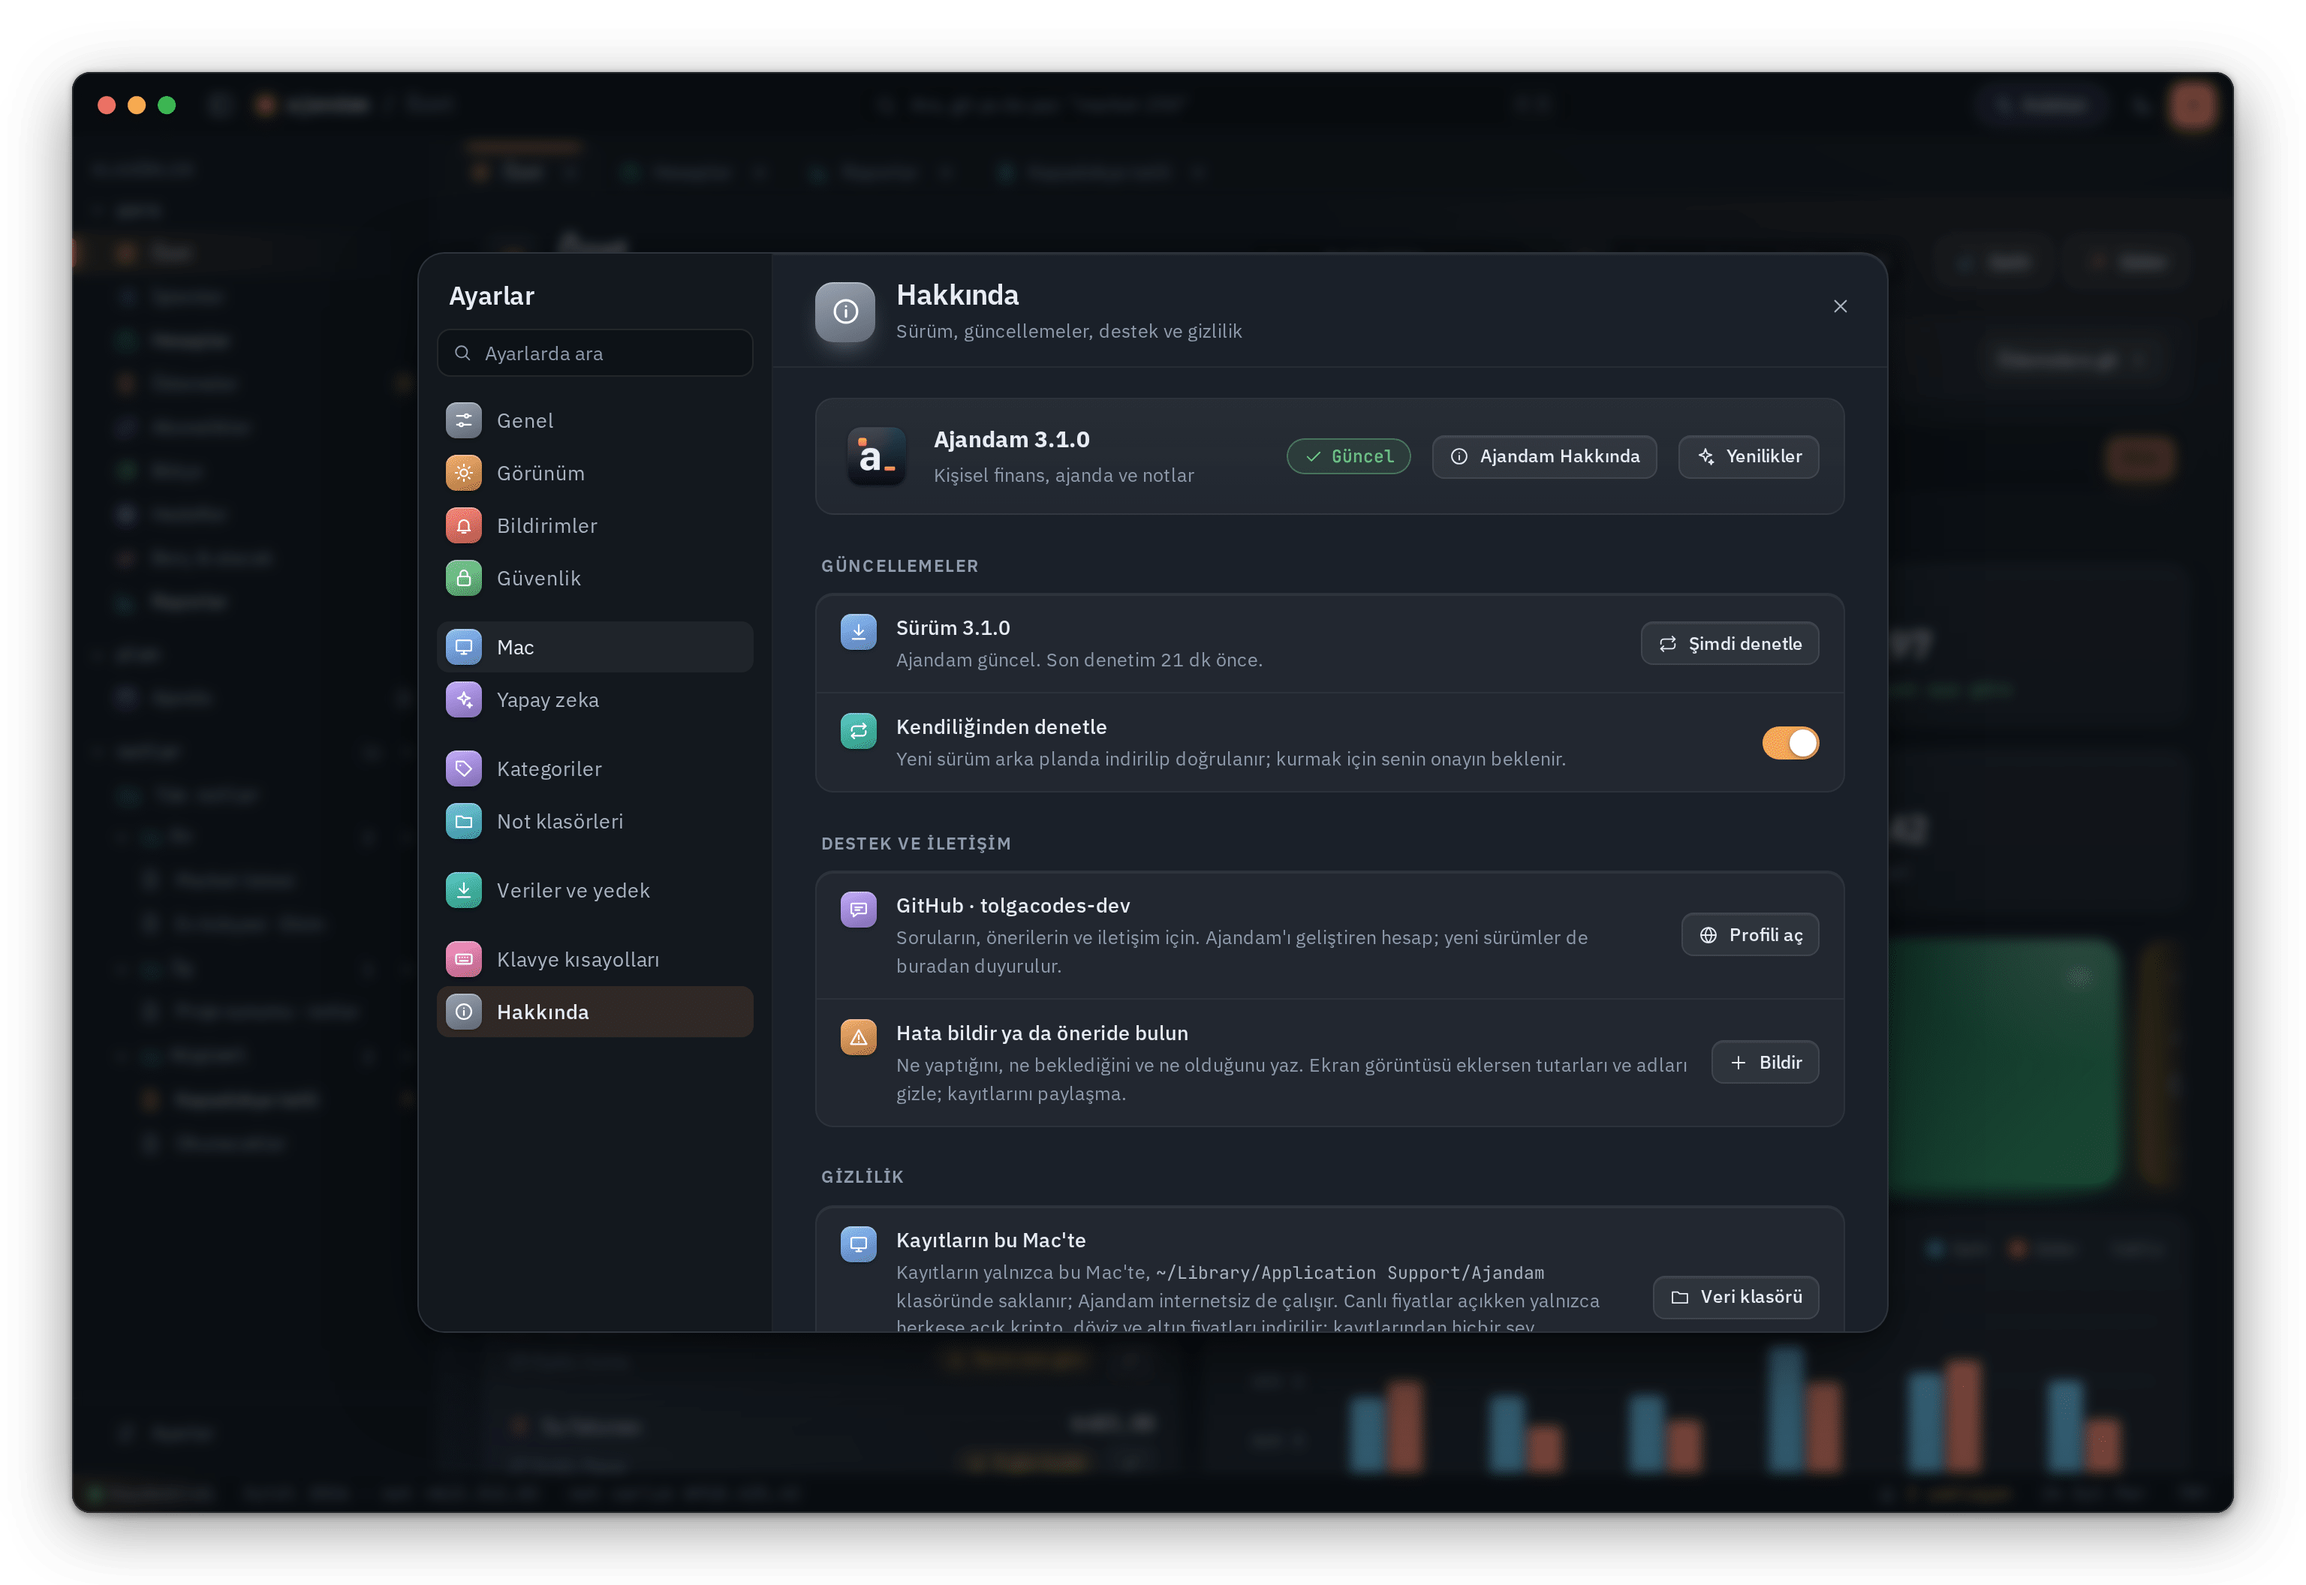
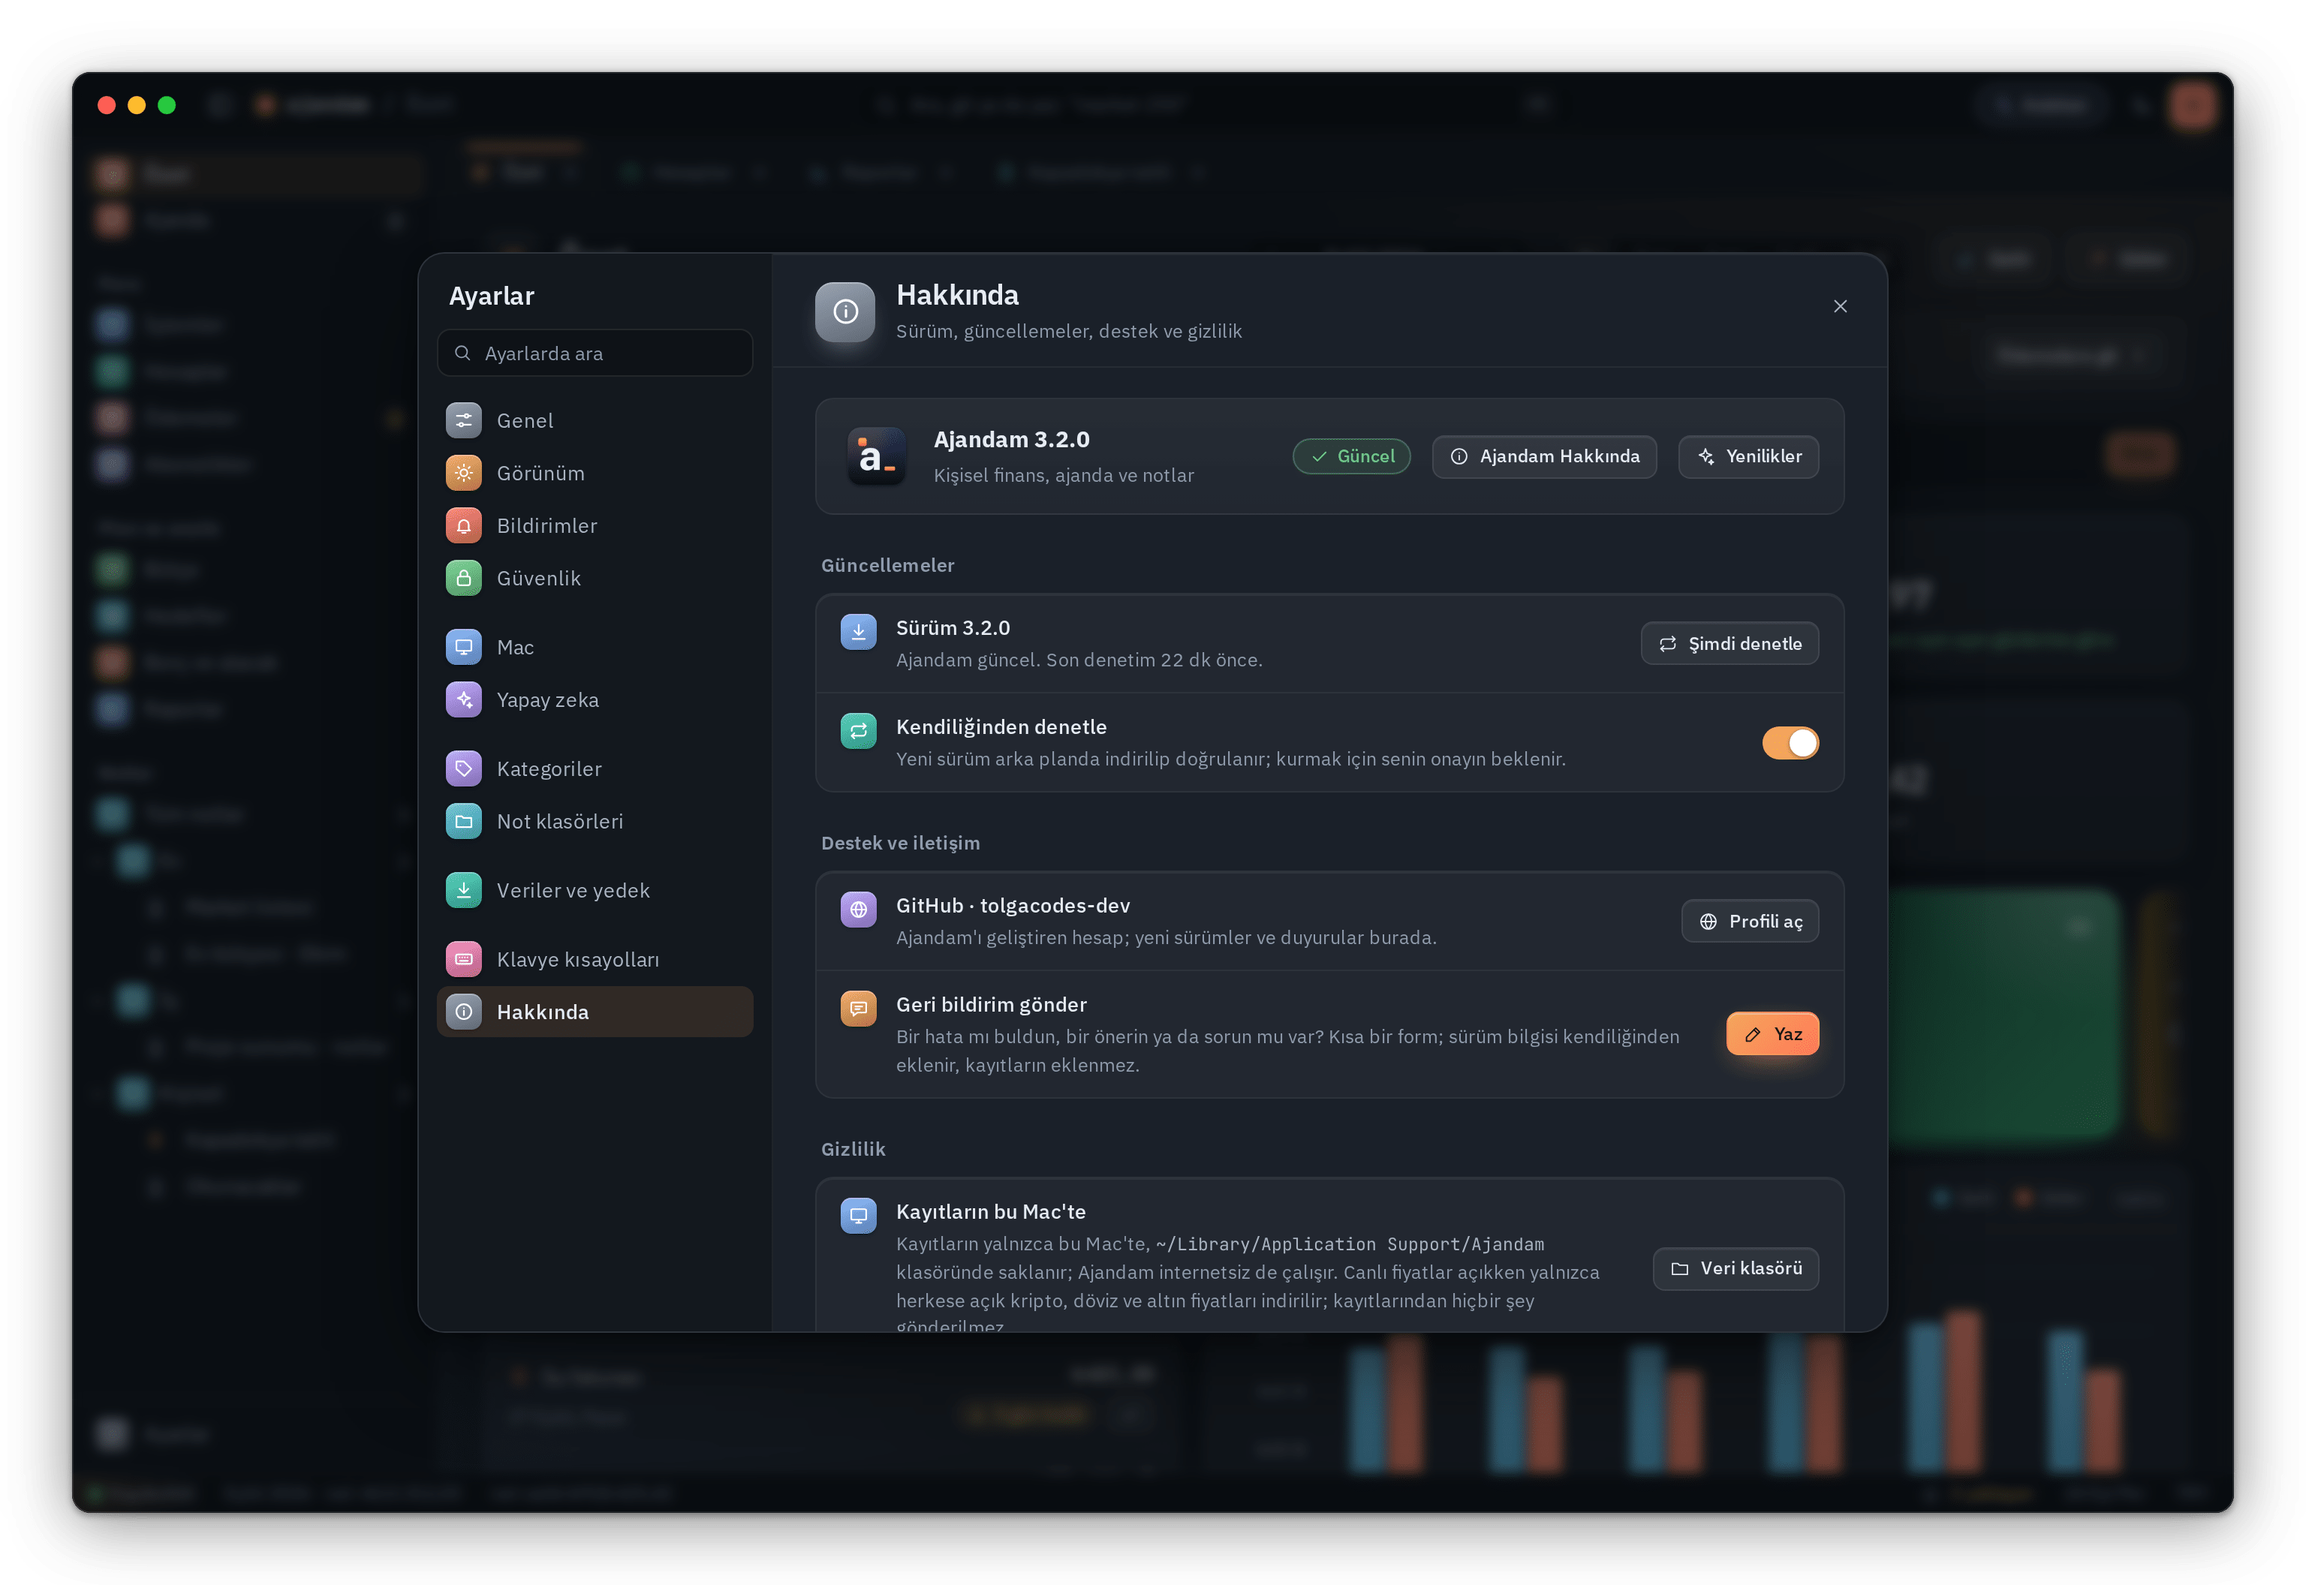
Tanıtım sayfası güncellendi

diff --git a/README.md b/README.md
@@ -33,8 +33,8 @@
 - **Türkiye için yapıldı.** Kredi kartı kesim ve son ödeme günleri, taksitler, asgari ödeme (%20 / %40), TCMB azami
   faiz oranları, TÜFE ile enflasyon raporu, kira artış sınırı, resmî tatiller, vergi takvimi, BES devlet katkısı.
 - **Yapay zeka, anahtarsız.** Apple Intelligence ya da Ollama, LM Studio gibi yerel modellerle Mac'inde çalışır;
-  istersen ChatGPT hesabınla giriş yapar ya da Claude masaüstü uygulamasını bağlarsın. Önerdiği hiçbir şey sen
-  onaylamadan kaydedilmez.
+  istersen ChatGPT hesabınla giriş yapar ya da Claude ve ChatGPT masaüstü uygulamalarını bağlarsın. Önerdiği hiçbir
+  şey sen onaylamadan kaydedilmez.
 - **Para, ajanda ve notlar bir arada.** Ödeme günleri takvimde, bütçe hedefleri notlarında; hepsi aynı aramada (⌘K).
 - **Ücretsiz ve güncel.** Yeni sürüm çıkınca Ajandam haber verir; imzası doğrulanır, tek tıkla kurulur.
 
@@ -115,7 +115,8 @@ arttı mı görürsün. Kira artışı, yenilemeden önceki ayın TÜFE 12 aylı
   Anımsatıcılar üzerinden iPhone'una da düşer.
 - **Notlar:** Markdown, yapılacak listeleri, tablolar, etiketler, klasörler, sabitleme, yazdırma.
 - **Mac:** her şeyde sağ tık menüsü (hesap, işlem, ödeme, not, takvim günü), ⌘Z ile geri alma, bildirimlerde
-  "Ödendi" ve "Yarın hatırlat", Dock rozeti, Touch ID kilidi, sürükle-bırak, klavye kısayolları, açık ve koyu tema.
+  "Ödendi" ve "Yarın hatırlat", Dock rozeti, PIN ve istersen Touch ID kilidi (PIN'i unutursan Mac parolanla
+  sıfırlarsın), sürükle-bırak, klavye kısayolları, açık ve koyu tema.
 
 ## Kurulum
 
@@ -155,8 +156,9 @@ Ajandam'ın yapay zekası API anahtarı istemez; **Ayarlar › Yapay zeka** böl
 | **Yerel model** ([Ollama](https://ollama.com), [LM Studio](https://lmstudio.ai)) | Mac'inde | Uygulama açıkken kendiliğinden bulunur |
 | **ChatGPT** (hesabınla giriş) | OpenAI'de; yalnızca izin verdiğin özetler gider | ChatGPT planın yeter, API anahtarı gerekmez |
 | **Claude** (masaüstü uygulaması, MCP) | Claude'da | Ajandam uzantısını tek tıkla eklersin |
+| **ChatGPT** (Mac uygulaması, MCP) | ChatGPT'de | Ajandam'ı ChatGPT'nin ayarlarına tek tıkla eklersin |
 
-Asistan, ekstre okuma ve kategori önerileri bu yollardan biriyle çalışır. Claude ya da Cursor gibi MCP destekleyen
+Asistan, ekstre okuma ve kategori önerileri bu yollardan biriyle çalışır. Claude, ChatGPT ya da Cursor gibi MCP destekleyen
 uygulamalar, sen izin verirsen Ajandam'daki kayıtlarına bakabilir, analiz yapabilir ve ekleme önerebilir; öneriler
 senin onayını bekler. Ayrıntılar: [docs/yapay-zeka.md](docs/yapay-zeka.md)
 
@@ -172,7 +174,8 @@ senin onayını bekler. Ayrıntılar: [docs/yapay-zeka.md](docs/yapay-zeka.md)
 
 ## Destek ve iletişim
 
-- **Hata bildirmek ya da öneride bulunmak için:** [Issues › Yeni](https://github.com/tolgacodes-dev/ajandam/issues/new/choose).
+- **Hata, öneri ya da soru için:** Ajandam'da **Yardım › Geri Bildirim Gönder…** formu GitHub'da hazır doldurulmuş
+  bir konu açar. Doğrudan [Issues › Yeni](https://github.com/tolgacodes-dev/ajandam/issues/new/choose) de olur.
   Ekran görüntüsü eklersen tutarları ve adları gizle; kayıtlarını paylaşma.
 - **İletişim:** [github.com/tolgacodes-dev](https://github.com/tolgacodes-dev)
 - **Sürüm notları:** [CHANGELOG.md](CHANGELOG.md) ve [Sürümler](https://github.com/tolgacodes-dev/ajandam/releases)
@@ -196,7 +199,7 @@ your Mac: no account, no server, no subscription.
 - **Turkey-specific:** CPI (TÜFE) based inflation report, rent increase cap, central bank card interest rates,
   public holidays, tax calendar, private pension (BES) state contribution.
 - **AI without API keys:** Apple Intelligence or local models (Ollama, LM Studio) on your Mac, sign in with your
-  ChatGPT account, or connect the Claude desktop app over MCP. Nothing is saved without your approval.
+  ChatGPT account, or connect the Claude or ChatGPT desktop app over MCP. Nothing is saved without your approval.
 - **Calendar and notes:** month, week and list views, to-dos, Markdown notes with tables.
 
 **Install:** macOS 12 or later (Apple silicon and Intel). Run

diff --git a/CHANGELOG.md b/CHANGELOG.md
@@ -3,6 +3,26 @@
 Ajandam'ın sürüm notları. Her sürümün ilk bölümü uygulama içindeki güncelleme penceresinde de gösterilir.
 Sürüm numaraları [anlamsal sürümlemeye](https://semver.org/lang/tr/) uyar.
 
+## [3.2.0] – 2026-10-01
+
+- **Yeni sol menü:** bölümler Para, Plan ve analiz, Notlar başlıkları altında toplandı; her bölümün Ayarlar'daki gibi kendi renkli simgesi var. Bir grubu kapatsan da geciken ödeme başlığında görünür. Çok not olduğunda ilk 30'u listelenir, gerisi "… not daha" ile açılır. Ayarlar en altta sabit durur.
+- **Touch ID senin seçimin:** Ayarlar › Güvenlik'te "Touch ID ile kilidi aç" anahtarı. Açarken parmak izin bir kez doğrulanır; kapalıyken kilit yalnızca PIN'le açılır. Önceden Touch ID kullanıyorsan bir kez açman yeter.
+- **PIN'ini mi unuttun?** Kilit ekranında Mac'inin parolasıyla doğrulayıp yeni bir PIN belirlersin ya da PIN'i kaldırırsın. Kayıtlarına dokunulmaz.
+- **ChatGPT uygulamasına bağlan:** Ayarlar › Yapay zeka'da Claude ve ChatGPT için iki kart var. "ChatGPT'ye bağla" Ajandam'ı ChatGPT'nin Mac uygulamasına ekler (MCP); ChatGPT kayıtlarına bakar, ekleme önerir, öneriler senin onayını bekler. ChatGPT hesabınla giriş ayrı bir seçenek olarak duruyor.
+- **Geri bildirim gönder:** hata, öneri ya da soru için kısa bir form. GitHub'da hazır doldurulmuş olarak açılır ya da metni kopyalayıp istediğin yere yapıştırırsın. İstersen sürüm ve Mac bilgisi eklenir; kayıtların eklenmez. Yardım menüsünde ve Ayarlar › Hakkında'da.
+- **Daha okunaklı:** pencere ve panel başlıkları, tablolar, düğmeler ve durum çubuğu düz yazı tipinde; tutarlar eşit genişlikte kaldı. Kategori adlarında "&" yerine "ve" (Market ve gıda); içe aktarma ve kısayol yazımları her yerde aynı.
+- **Fiş tek yerde:** yeni kayıtta "Fiş / fatura ekle" ile "Fişten doldur" yan yana.
+
+**Düzeltmeler**
+- Ayarlar penceresinin sol sütunu alttan kesik görünüyordu.
+- Hesap kartına sağ tıklayıp "Ayrıntıları göster" deyince bir şey olmuyordu; artık hesabın ayrıntılarına kayar ve kısa bir süre vurgular.
+- Özet ayın başında bu ayı geçen ayın tamamıyla karşılaştırıyordu; artık geçen ayın aynı günleriyle karşılaştırır.
+- Yenilikler penceresi alçak ekranda kartları kesiyordu; Kart araçları aşağı kaymış açılıyordu.
+- Dar pencerede takvimdeki tutarlar yandaki güne taşıyordu, Raporlar'daki tablolar kesiliyordu, grafik yazıları çok küçülüyordu, Bütçe'de "Limit yok" kesiliyordu, kilit ekranında "PIN'ini mi unuttun?" görünmüyordu.
+- Sekmeler taşınca fare tekerleğiyle kaydırılır. Kart şeridinde sağ tık menüsü bazen hemen kapanıyordu.
+- Boş ekranlarda çelişen yazılar ("Hesap yok" ile Genel hesap yan yana) ve kayıt yokken uydurma grafik ölçekleri kalktı.
+- Hakkında'daki iki güncelleme düğmesi bire indi; PIN kilidi kapalıyken ⇧⌘L uyarısı onay işaretiyle görünüyordu.
+
 ## [3.1.0] – 2026-10-01
 
 - **Sağ tık menüleri:** hesap kartına, işleme, ödemeye, düzenli kayda, aboneliğe, etkinliğe, hedefe, borca, bütçe satırına, nota, klasöre, sekmeye ya da takvim gününe sağ tıklayınca o şeyle ilgili işlemler açılır: düzenle, bakiyeyi güncelle, harcama ekle, öde, IBAN'ı kopyala, varsayılan hesap yap, arşivle. Boş yerde yeni kayıt, arama ve Asistan. Klavyeden ⇧F10 ile de açılır. Yazı alanlarında Kes, Kopyala, Yapıştır kalır; işe yaramayan "Yeniden Yükle" kalktı.

diff --git a/docs/yapay-zeka.md b/docs/yapay-zeka.md
@@ -55,6 +55,28 @@ analiz yapabilir ve ekleme önerebilir.
 
 Bağlantıyı **Yapay zeka uygulamaları bağlanabilir** anahtarıyla istediğin an kapatabilirsin.
 
+## ChatGPT (masaüstü uygulaması)
+
+ChatGPT'nin Mac uygulaması da Ajandam'a [MCP](https://modelcontextprotocol.io) ile bağlanır; ChatGPT'de sohbet ederken
+kayıtlarına bakabilir, analiz yapabilir ve ekleme önerebilir. Öneriler Ajandam'da senin onayını bekler.
+
+1. **Ayarlar › Yapay zeka › ChatGPT'ye bağla** düğmesine bas; açılan pencerede **Ekle** de (bağlantı izni de açılır).
+   Ajandam, ChatGPT'nin ayar dosyasına (`~/.codex/config.toml`, ChatGPT ve Codex ortak kullanır) şu satırları yazar;
+   dosyanın eski hali `config.toml.ajandam-yedek` olarak saklanır:
+   ```toml
+   # Ajandam: kayıtlarına bakar; önerileri Ajandam'da sen onaylarsın
+   [mcp_servers.ajandam]
+   command = "/Applications/Ajandam.app/Contents/MacOS/Ajandam"
+   args = ["--mcp"]
+   ```
+2. ChatGPT'den çık (⌘Q) ve yeniden aç.
+3. ChatGPT'ye "Ajandam'a göre bu ay nereye harcadım?" gibi sorular sorabilirsin.
+
+Satırları kendin eklemek istersen pencerede **Kendim eklemek istiyorum** bölümü aynı satırları ve komutu verir.
+Bağlantıyı aynı pencereden **ChatGPT'den kaldır** ile silebilirsin. Bu yol ChatGPT'nin Mac uygulamasındaki MCP
+desteğiyle çalışır; ChatGPT planına göre görünmeyebilir. Yukarıdaki "ChatGPT hesabınla giriş" bundan ayrıdır: o yol
+Ajandam'ın kendi Asistanı ve döküm okuması içindir.
+
 ## Diğer MCP uygulamaları
 
 Cursor, LM Studio, VS Code gibi MCP destekleyen uygulamalar da bağlanabilir. Ayarlardaki **Kopyala** düğmesi şu
